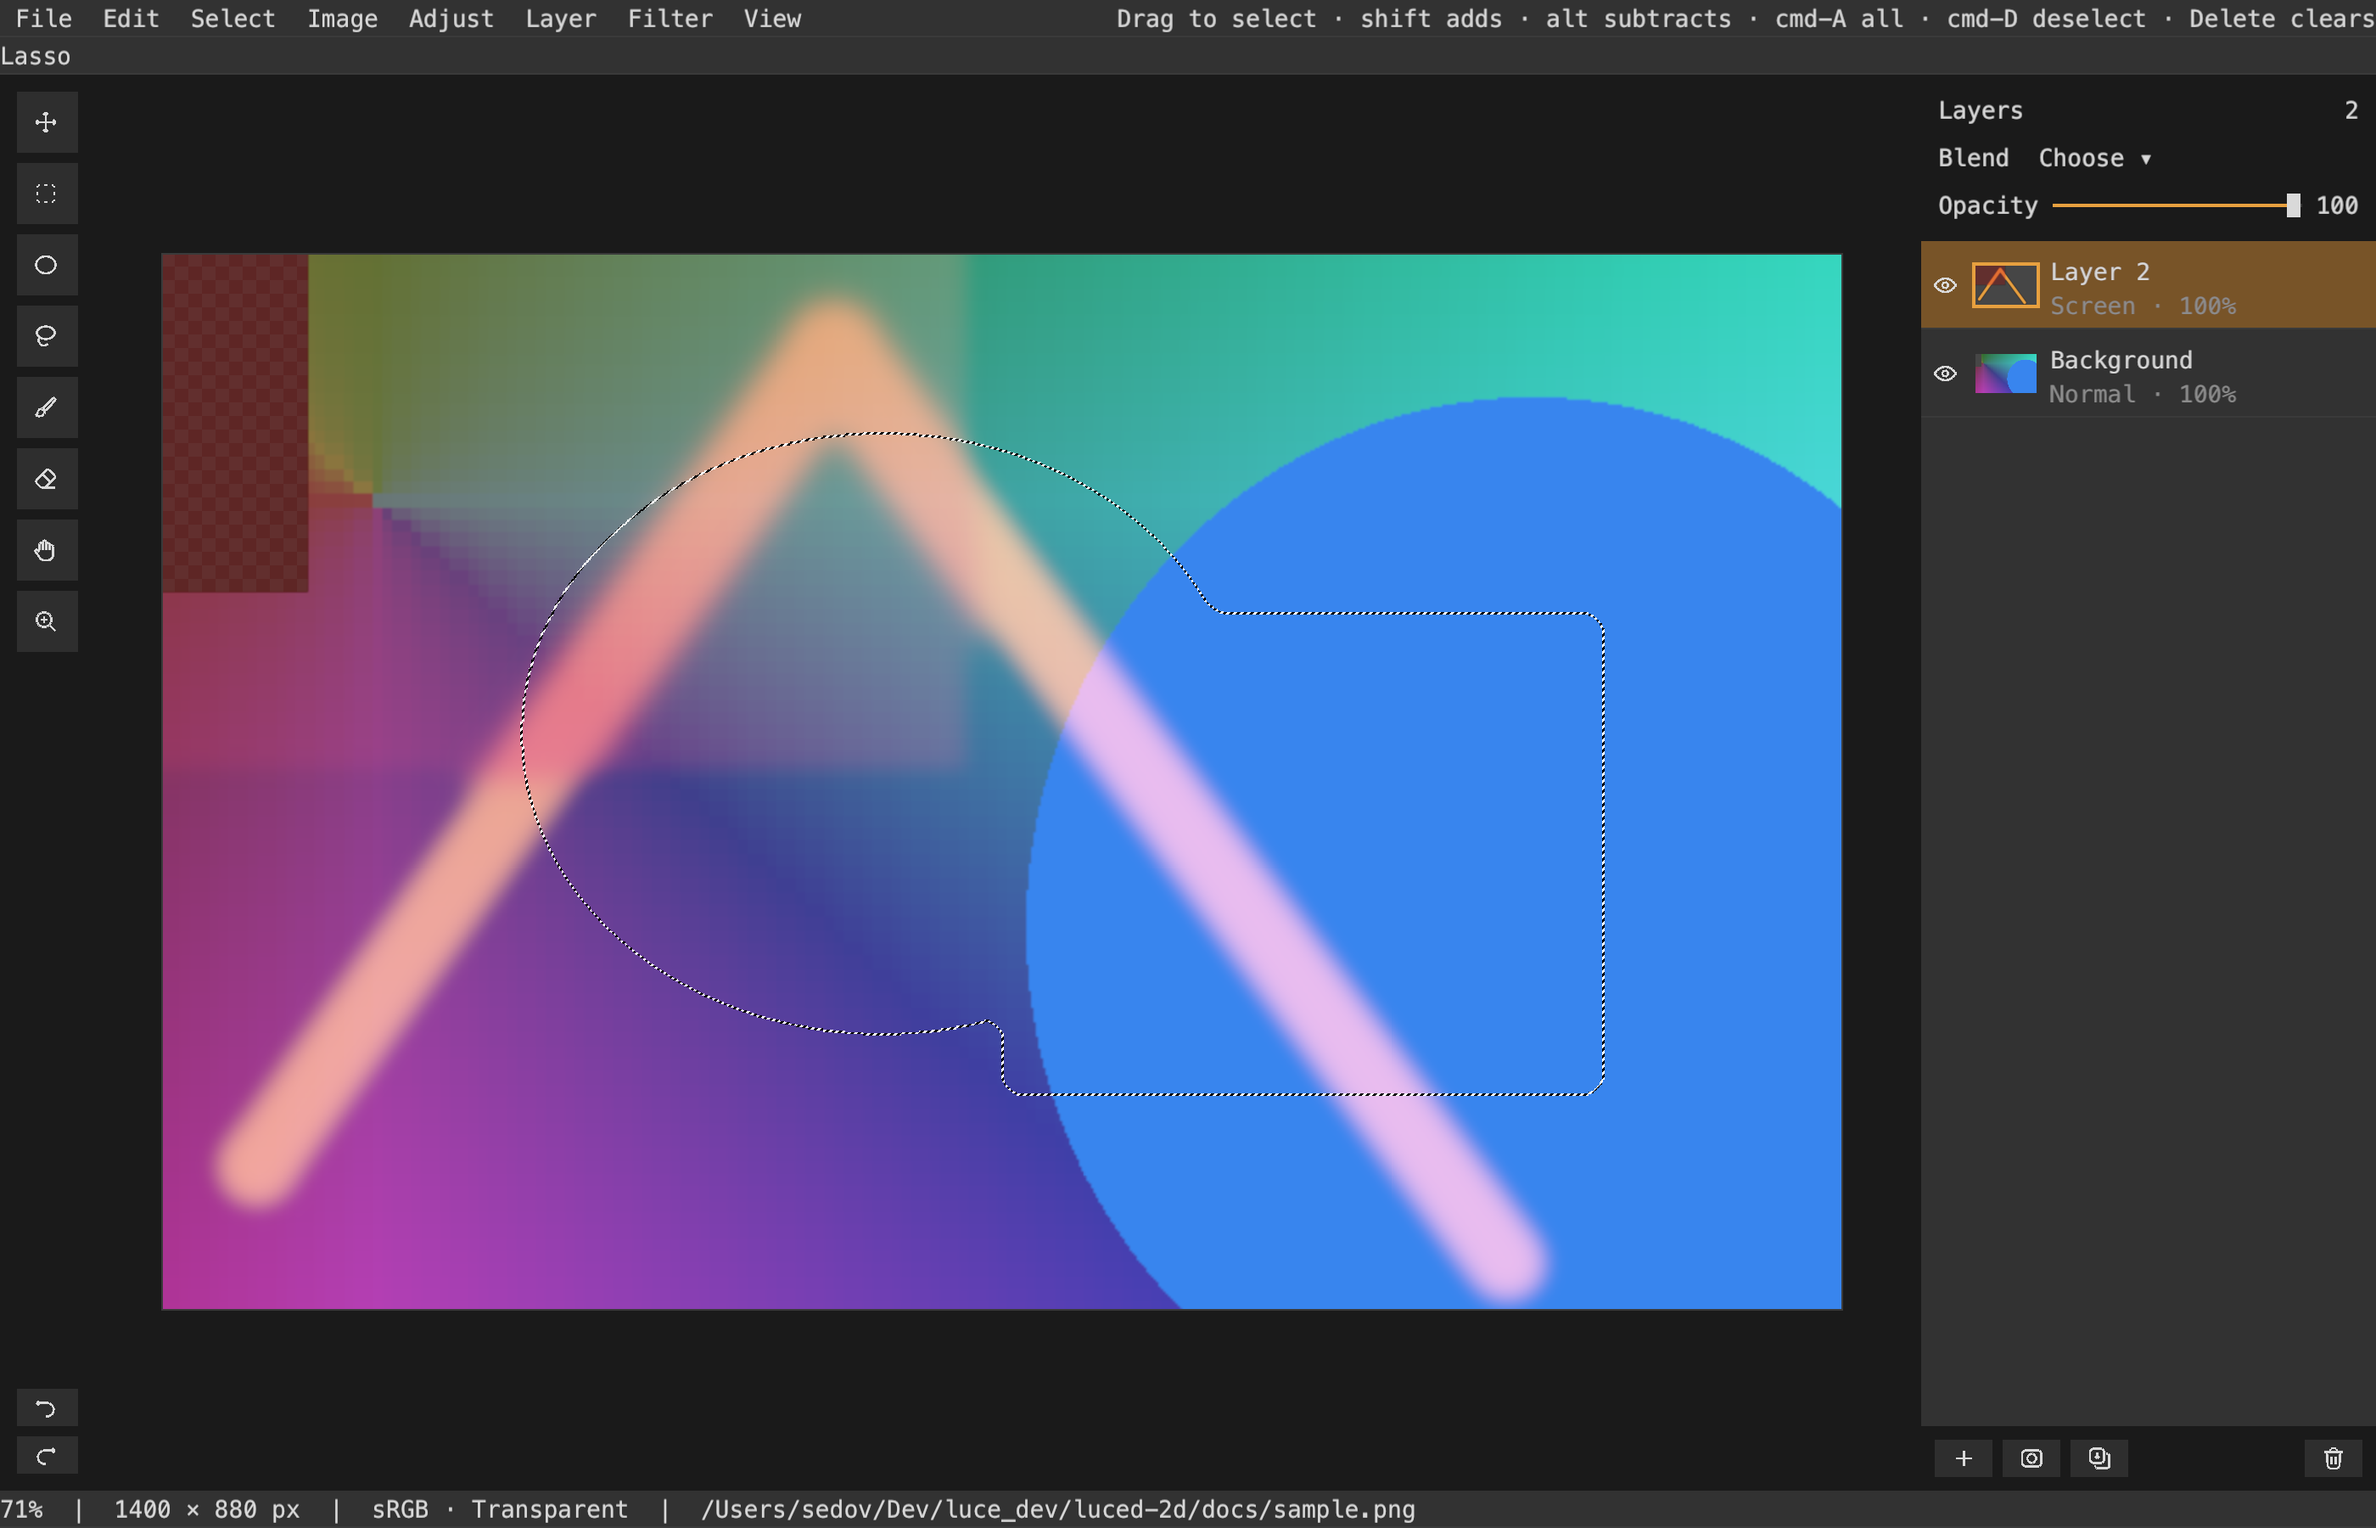
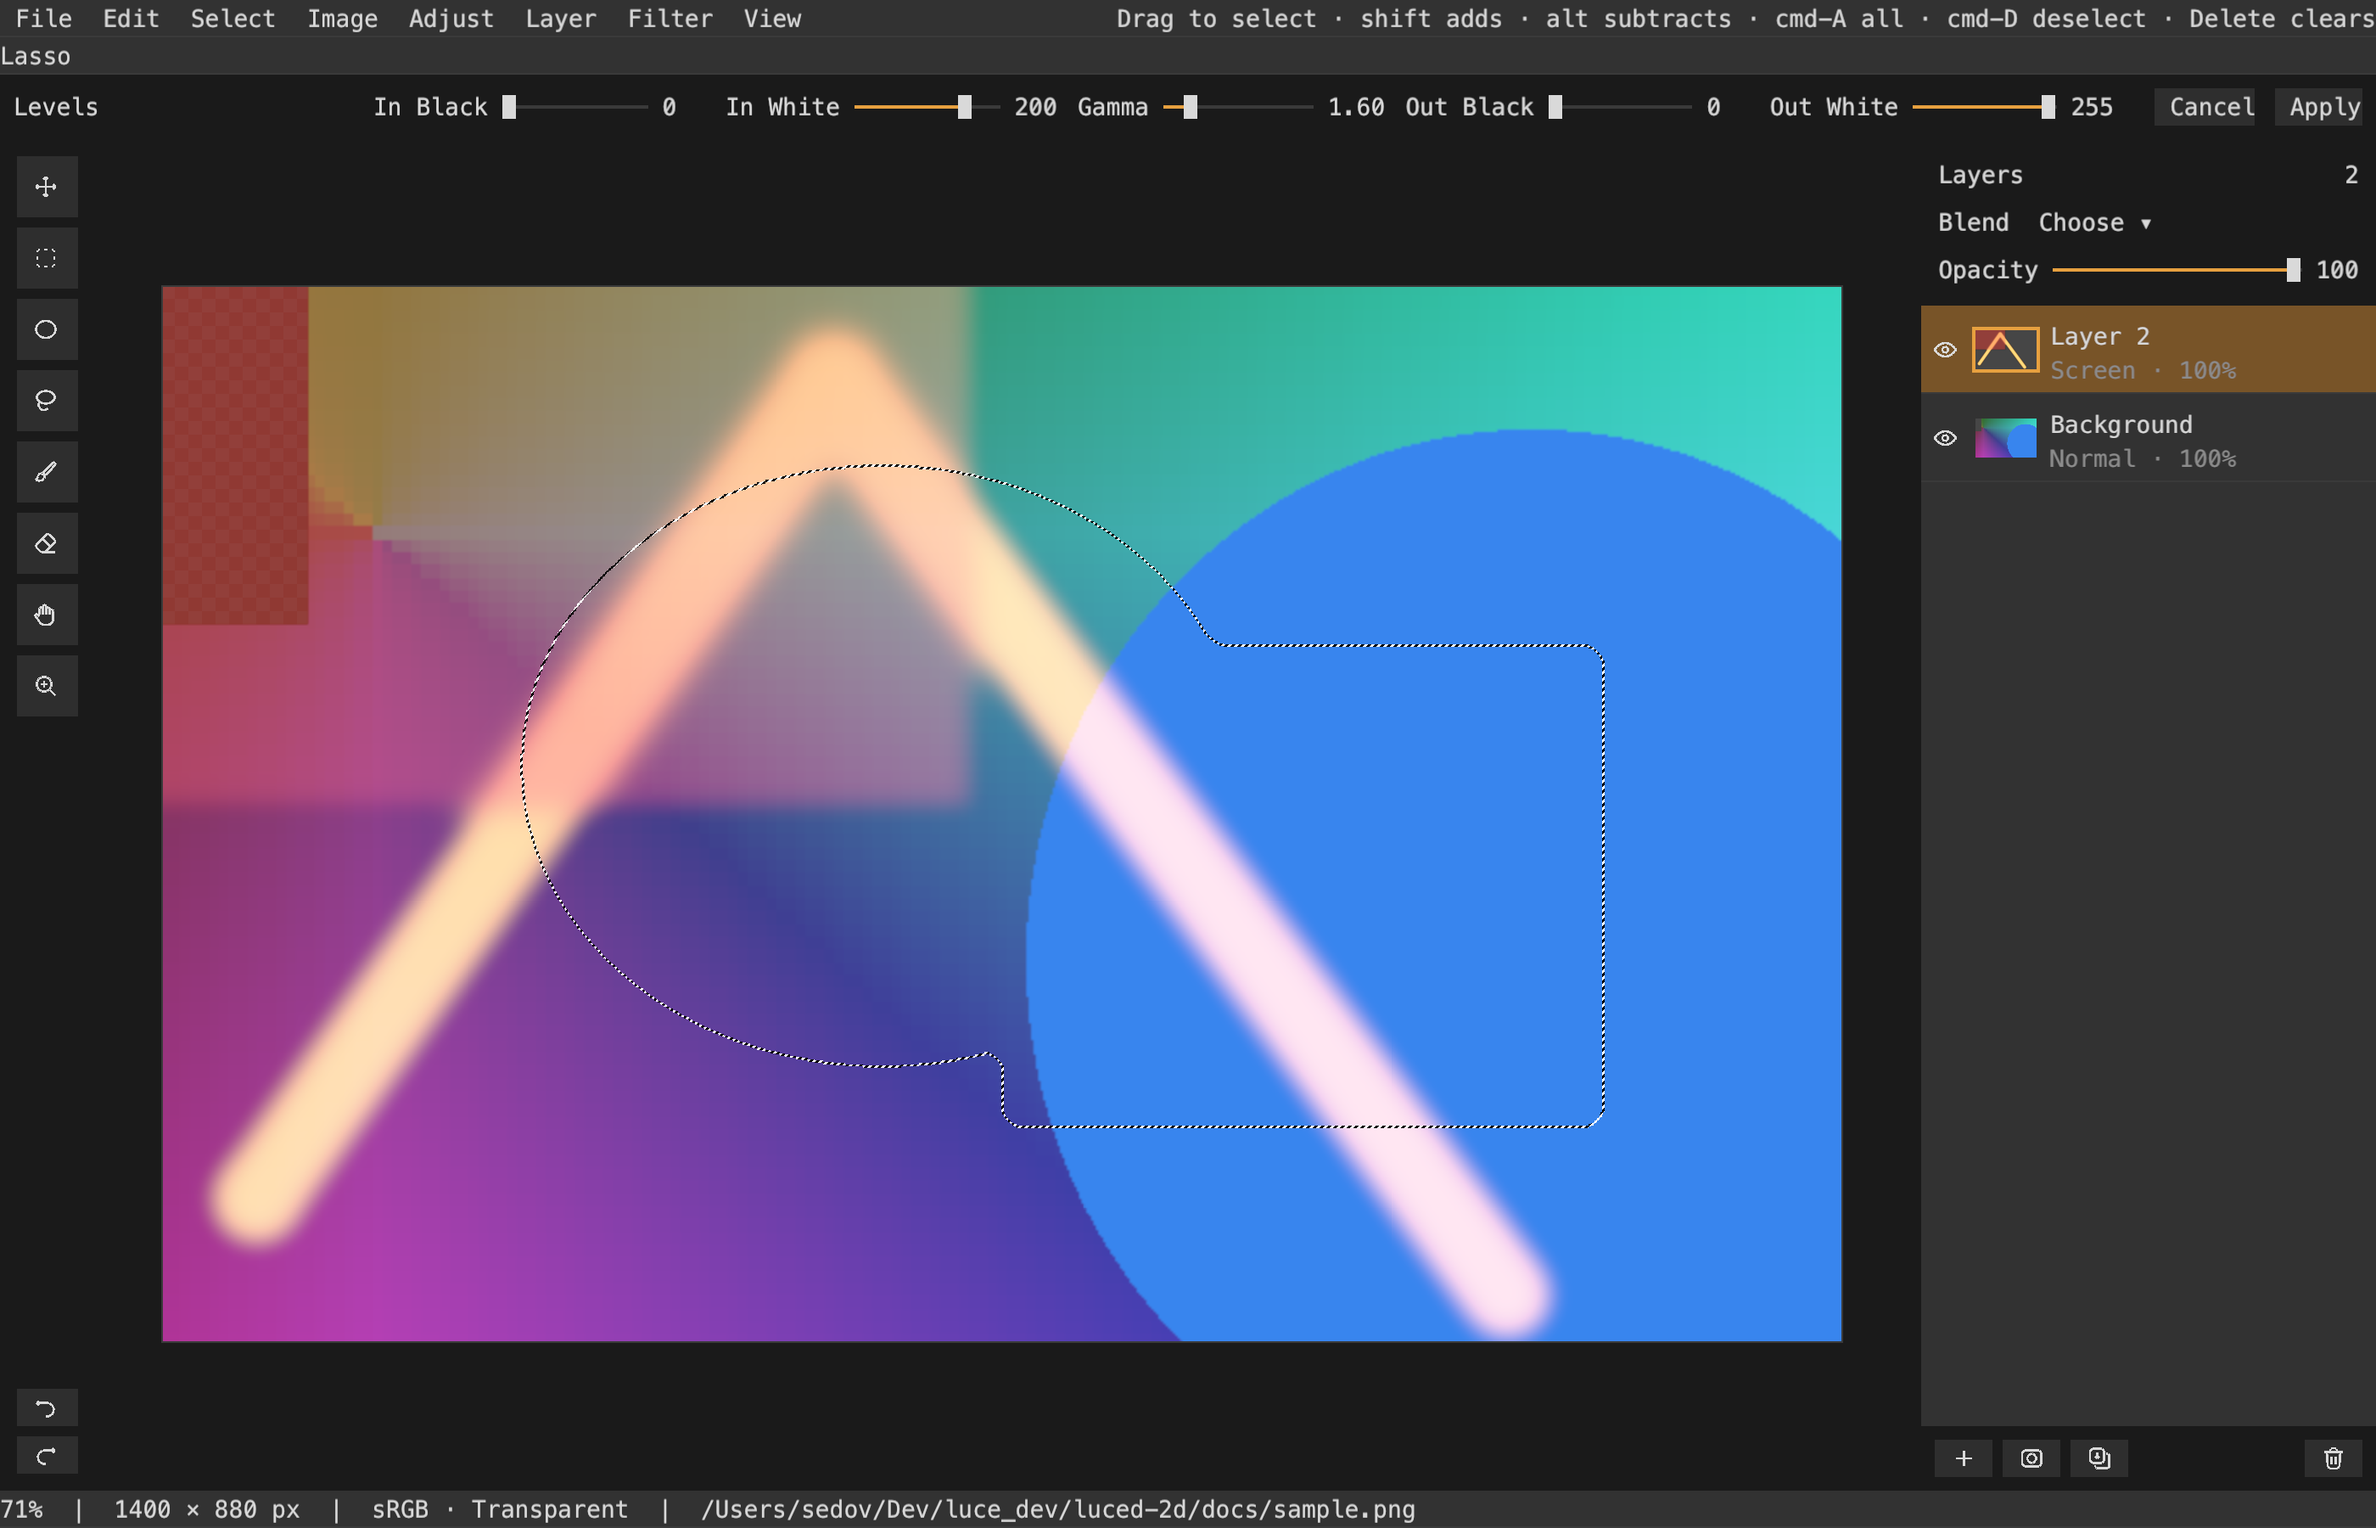
Live-preview adjustments: an adjust bar with sliders for Levels, Brightness/Contrast, HSL, Threshold, Posterize and Gaussian Blur
The bar replaces the number prompts: dragging a slider re-renders the layer from
its original pixels; Apply keeps the result as one undo step, Cancel restores.

Claude-Session: https://claude.ai/code/session_01KSvf935cywg8wGYHPcyZf9

diff --git a/tools/preview.py b/tools/preview.py
@@ -107,6 +107,10 @@ pub func main(arguments: list[str]) -> int!:
             editor.workspace.canvas.select_rectangle(700, 300, 500, 400, 1)
             editor.workspace.adjust_selection(0, 12)
             editor.workspace.choose_tool("lasso")
+            editor.panels.adjust(3)
+            editor.panels.adjust_sliders[3][1].set_value(200.0)
+            editor.panels.adjust_sliders[3][2].set_value(1.6)
+            editor.panels.preview()
             editor.panels.refresh()
         if captured:
             editor.app.stop()
